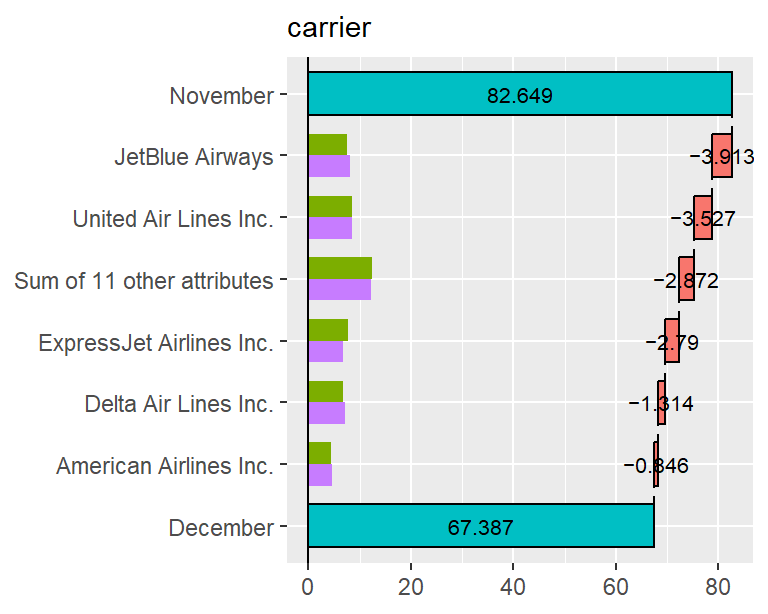
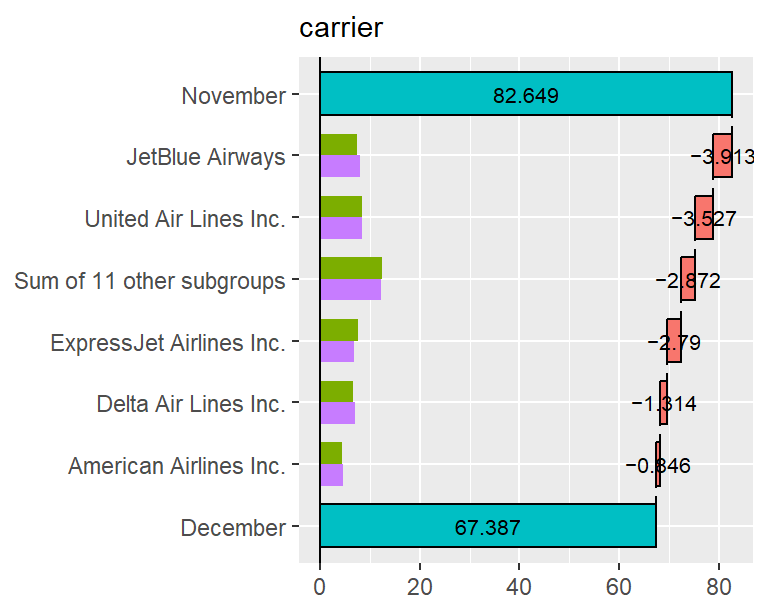
Deploying to gh-pages from @ hoxo-m/TheseusPlot@10a2480421be7a48b6a9d09e8e911a9f894db18d 🚀

diff --git a/reference/ShipOfTheseus.html b/reference/ShipOfTheseus.html
@@ -6,14 +6,12 @@
     }
   };
 </script><script src="../lightswitch.js"></script><script src="../deps/jquery-3.6.0/jquery-3.6.0.min.js"></script><meta name="viewport" content="width=device-width, initial-scale=1, shrink-to-fit=no"><link href="../deps/bootstrap-5.3.8/bootstrap.min.css" rel="stylesheet"><script src="../deps/bootstrap-5.3.8/bootstrap.bundle.min.js"></script><link href="../deps/font-awesome-6.5.2/css/all.min.css" rel="stylesheet"><link href="../deps/font-awesome-6.5.2/css/v4-shims.min.css" rel="stylesheet"><script src="../deps/headroom-0.11.0/headroom.min.js"></script><script src="../deps/headroom-0.11.0/jQuery.headroom.min.js"></script><script src="../deps/bootstrap-toc-1.0.1/bootstrap-toc.min.js"></script><script src="../deps/clipboard.js-2.0.11/clipboard.min.js"></script><script src="../deps/search-1.0.0/autocomplete.jquery.min.js"></script><script src="../deps/search-1.0.0/fuse.min.js"></script><script src="../deps/search-1.0.0/mark.min.js"></script><!-- pkgdown --><script src="../pkgdown.js"></script><meta property="og:title" content="An R6 Class for Generating Theseus Plot — ShipOfTheseus"><meta name="description" content="The ShipOfTheseus class decomposes the difference in outcome rates
-between two datasets and visualizes the results as a Theseus Plot. It
-provides methods to compute contributions of individual attributes, summarize
-results in tables, and generate waterfall-style plots for intuitive
-interpretation."><meta property="og:description" content="The ShipOfTheseus class decomposes the difference in outcome rates
-between two datasets and visualizes the results as a Theseus Plot. It
-provides methods to compute contributions of individual attributes, summarize
-results in tables, and generate waterfall-style plots for intuitive
-interpretation."></head><body>
+between two datasets. For a selected column, it computes subgroup
+contributions, summarizes the results in tables, and visualizes them as
+waterfall-style Theseus Plots."><meta property="og:description" content="The ShipOfTheseus class decomposes the difference in outcome rates
+between two datasets. For a selected column, it computes subgroup
+contributions, summarizes the results in tables, and visualizes them as
+waterfall-style Theseus Plots."></head><body>
     <a href="#main" class="visually-hidden-focusable">Skip to contents</a>
 
 
@@ -62,10 +60,9 @@ interpretation."></head><body>
 
     <div class="ref-description section level2">
     <p>The <code>ShipOfTheseus</code> class decomposes the difference in outcome rates
-between two datasets and visualizes the results as a Theseus Plot. It
-provides methods to compute contributions of individual attributes, summarize
-results in tables, and generate waterfall-style plots for intuitive
-interpretation.</p>
+between two datasets. For a selected column, it computes subgroup
+contributions, summarizes the results in tables, and visualizes them as
+waterfall-style Theseus Plots.</p>
     </div>
 
 
@@ -137,8 +134,8 @@ elements in plots (default is <code>1</code>).</p></dd>
 <dd><p>string. The name of the column to analyze.</p></dd>
 
       <dt><code>n</code></dt>
-<dd><p>integer. Maximum number of top contributing attributes to display.
-If the number of attributes exceeds `n`, the remaining are aggregated.</p></dd>
+<dd><p>integer. Maximum number of top contributing subgroups to display.
+If the number of subgroups exceeds `n`, the remaining are aggregated.</p></dd>
 
       <dt><code>continuous</code></dt>
 <dd><p>list. A configuration list for handling continuous
@@ -148,7 +145,7 @@ variables (e.g., specifying number of bins or custom breaks).</p></dd>
 </dl><p></p></div>
 </div><p></p><div class="section">
 <h4 id="returns-1">Returns<a class="anchor" aria-label="anchor" href="#returns-1"></a></h4>
-<p>A tibble summarizing each attribute's contribution to the
+<p>A tibble summarizing each subgroups's contribution to the
   difference between the two groups, including counts, total outcomes,
   and rates for each subgroup.</p>
 </div>
@@ -173,18 +170,18 @@ variables (e.g., specifying number of bins or custom breaks).</p></dd>
 <dd><p>The name of the column to visualize.</p></dd>
 
       <dt><code>n</code></dt>
-<dd><p>integer. Maximum number of top contributing attributes to display.
-Remaining attributes are aggregated if necessary.</p></dd>
+<dd><p>integer. Maximum number of top contributing subgroups to display.
+Remaining subgroups are aggregated if necessary.</p></dd>
 
       <dt><code>main_item</code></dt>
-<dd><p>string. The attribute used as the reference for scaling
+<dd><p>string. The subgroup used as the reference for scaling
 the bar heights.</p></dd>
 
       <dt><code>bar_max_value</code></dt>
 <dd><p>numeric. Maximum value for scaling the contribution bars.</p></dd>
 
       <dt><code>levels</code></dt>
-<dd><p>character vector specifying the display order of attributes.</p></dd>
+<dd><p>character vector specifying the display order of subgroups</p></dd>
 
       <dt><code>continuous</code></dt>
 <dd><p>list. Configuration for handling continuous variables
@@ -217,18 +214,18 @@ the bar heights.</p></dd>
 <dd><p>The name of the column to visualize.</p></dd>
 
       <dt><code>n</code></dt>
-<dd><p>integer. Maximum number of top contributing attributes to display.
-Remaining attributes are aggregated if necessary.</p></dd>
+<dd><p>integer. Maximum number of top contributing subgroups to display.
+Remaining subgroups are aggregated if necessary.</p></dd>
 
       <dt><code>main_item</code></dt>
-<dd><p>string. The attribute used as the reference for scaling
+<dd><p>string. The subgroup used as the reference for scaling
 the bar heights.</p></dd>
 
       <dt><code>bar_max_value</code></dt>
 <dd><p>numeric. Maximum value for scaling the contribution bars.</p></dd>
 
       <dt><code>levels</code></dt>
-<dd><p>character vector specifying the display order of attributes.</p></dd>
+<dd><p>character vector specifying the display order of subgroups</p></dd>
 
       <dt><code>continuous</code></dt>
 <dd><p>list. Configuration for handling continuous variables

diff --git a/index.html b/index.html
@@ -77,13 +77,13 @@
 <div class="section level2">
 <h2 id="id_1-overview">1. Overview<a class="anchor" aria-label="anchor" href="#id_1-overview"></a>
 </h2>
-<p>In data analysis, when a metric differs between two groups, we sometimes want to investigate whether a particular subgroup is driving that difference. For example, when a key metric decline is detected compared to the previous year, you may want to conduct a more detailed analysis. In this analysis, you may focus on gender among the attributes and examine whether the decline occurred among male, female, or both. However, this type of analysis is challenging when the metric is a rate, because the magnitude of each subgroup’s contribution to the rate cannot be simply calculated, unlike in the case of volume metrics.</p>
+<p>In data analysis, when a metric differs between two groups, we sometimes want to investigate whether a particular subgroup is driving that difference. For example, when a key metric decline is detected compared to the previous year, you may want to conduct a more detailed analysis. In this analysis, you may focus on gender and examine whether the decline was driven by the male subgroup, the female subgroup, or both. However, this type of analysis is challenging when the metric is a rate, because the magnitude of each subgroup’s contribution to the rate cannot be simply calculated, unlike in the case of volume metrics.</p>
 <p>To address this issue, we propose an approach inspired by the story of the <em><a href="https://en.wikipedia.org/wiki/Ship_of_Theseus" class="external-link">Ship of Theseus</a></em>. This approach involves gradually replacing the components of one group with those of another, recalculating the metric at each step. The change in the metric at each step can then be interpreted as the contribution of each subgroup to the overall difference.</p>
 <p>For instance, suppose the metric was 6.2% in 2024 and decreased to 5.2% in 2025. Again, we focus on gender. We replace the male data within the 2024 dataset with the male data from 2025 and recalculate the metric. As a result, the metric would drop by 0.8 percentage points, reaching 5.4%. In this case, the contribution of the male group to the change in the metric is -0.8 percentage points. Next, we replace the female data from 2024 with that from 2025. The dataset then consists entirely of 2025 data, and the metric drops by 0.2 percentage points, reaching 5.2%. Thus, the contribution of the female group is -0.2 percentage points.</p>
 <p>When visualized, the results appear as follows:</p>
 <p><img src="reference/figures/README-overview-1.png" alt="" width="500"></p>
 <p>From this plot, we can see that the decline in the metric is primarily driven by the male group. We call this visualization the “Theseus Plot.”</p>
-<p>The <strong>TheseusPlot</strong> package is designed to make it easy to generate Theseus Plots for various attributes.</p>
+<p>The <strong>TheseusPlot</strong> package is designed to make it easy to generate Theseus Plots for different subgroup-defining columns.</p>
 </div>
 <div class="section level2">
 <h2 id="id_2-installation">2. Installation<a class="anchor" aria-label="anchor" href="#id_2-installation"></a>

diff --git a/reference/ShipOfTheseus.md b/reference/ShipOfTheseus.md
@@ -1,10 +1,9 @@
 # An R6 Class for Generating Theseus Plot
 
 The `ShipOfTheseus` class decomposes the difference in outcome rates
-between two datasets and visualizes the results as a Theseus Plot. It
-provides methods to compute contributions of individual attributes,
-summarize results in tables, and generate waterfall-style plots for
-intuitive interpretation.
+between two datasets. For a selected column, it computes subgroup
+contributions, summarizes the results in tables, and visualizes them as
+waterfall-style Theseus Plots.
 
 ## Methods
 
@@ -93,8 +92,8 @@ Generate a contribution table for a given column.
 
 - `n`:
 
-  integer. Maximum number of top contributing attributes to display. If
-  the number of attributes exceeds \`n\`, the remaining are aggregated.
+  integer. Maximum number of top contributing subgroups to display. If
+  the number of subgroups exceeds \`n\`, the remaining are aggregated.
 
 - `continuous`:
 
@@ -103,7 +102,7 @@ Generate a contribution table for a given column.
 
 #### Returns
 
-A tibble summarizing each attribute's contribution to the difference
+A tibble summarizing each subgroups's contribution to the difference
 between the two groups, including counts, total outcomes, and rates for
 each subgroup.
 
@@ -132,12 +131,12 @@ Generate a Theseus plot for a specified column
 
 - `n`:
 
-  integer. Maximum number of top contributing attributes to display.
-  Remaining attributes are aggregated if necessary.
+  integer. Maximum number of top contributing subgroups to display.
+  Remaining subgroups are aggregated if necessary.
 
 - `main_item`:
 
-  string. The attribute used as the reference for scaling the bar
+  string. The subgroup used as the reference for scaling the bar
   heights.
 
 - `bar_max_value`:
@@ -146,7 +145,7 @@ Generate a Theseus plot for a specified column
 
 - `levels`:
 
-  character vector specifying the display order of attributes.
+  character vector specifying the display order of subgroups
 
 - `continuous`:
 
@@ -182,12 +181,12 @@ Generate a Theseus plot for a specified column
 
 - `n`:
 
-  integer. Maximum number of top contributing attributes to display.
-  Remaining attributes are aggregated if necessary.
+  integer. Maximum number of top contributing subgroups to display.
+  Remaining subgroups are aggregated if necessary.
 
 - `main_item`:
 
-  string. The attribute used as the reference for scaling the bar
+  string. The subgroup used as the reference for scaling the bar
   heights.
 
 - `bar_max_value`:
@@ -196,7 +195,7 @@ Generate a Theseus plot for a specified column
 
 - `levels`:
 
-  character vector specifying the display order of attributes.
+  character vector specifying the display order of subgroups
 
 - `continuous`:
 

diff --git a/index.md b/index.md
@@ -6,8 +6,8 @@ In data analysis, when a metric differs between two groups, we sometimes
 want to investigate whether a particular subgroup is driving that
 difference. For example, when a key metric decline is detected compared
 to the previous year, you may want to conduct a more detailed analysis.
-In this analysis, you may focus on gender among the attributes and
-examine whether the decline occurred among male, female, or both.
+In this analysis, you may focus on gender and examine whether the
+decline was driven by the male subgroup, the female subgroup, or both.
 However, this type of analysis is challenging when the metric is a rate,
 because the magnitude of each subgroup’s contribution to the rate cannot
 be simply calculated, unlike in the case of volume metrics.
@@ -37,7 +37,7 @@ From this plot, we can see that the decline in the metric is primarily
 driven by the male group. We call this visualization the “Theseus Plot.”
 
 The **TheseusPlot** package is designed to make it easy to generate
-Theseus Plots for various attributes.
+Theseus Plots for different subgroup-defining columns.
 
 ## 2. Installation
 